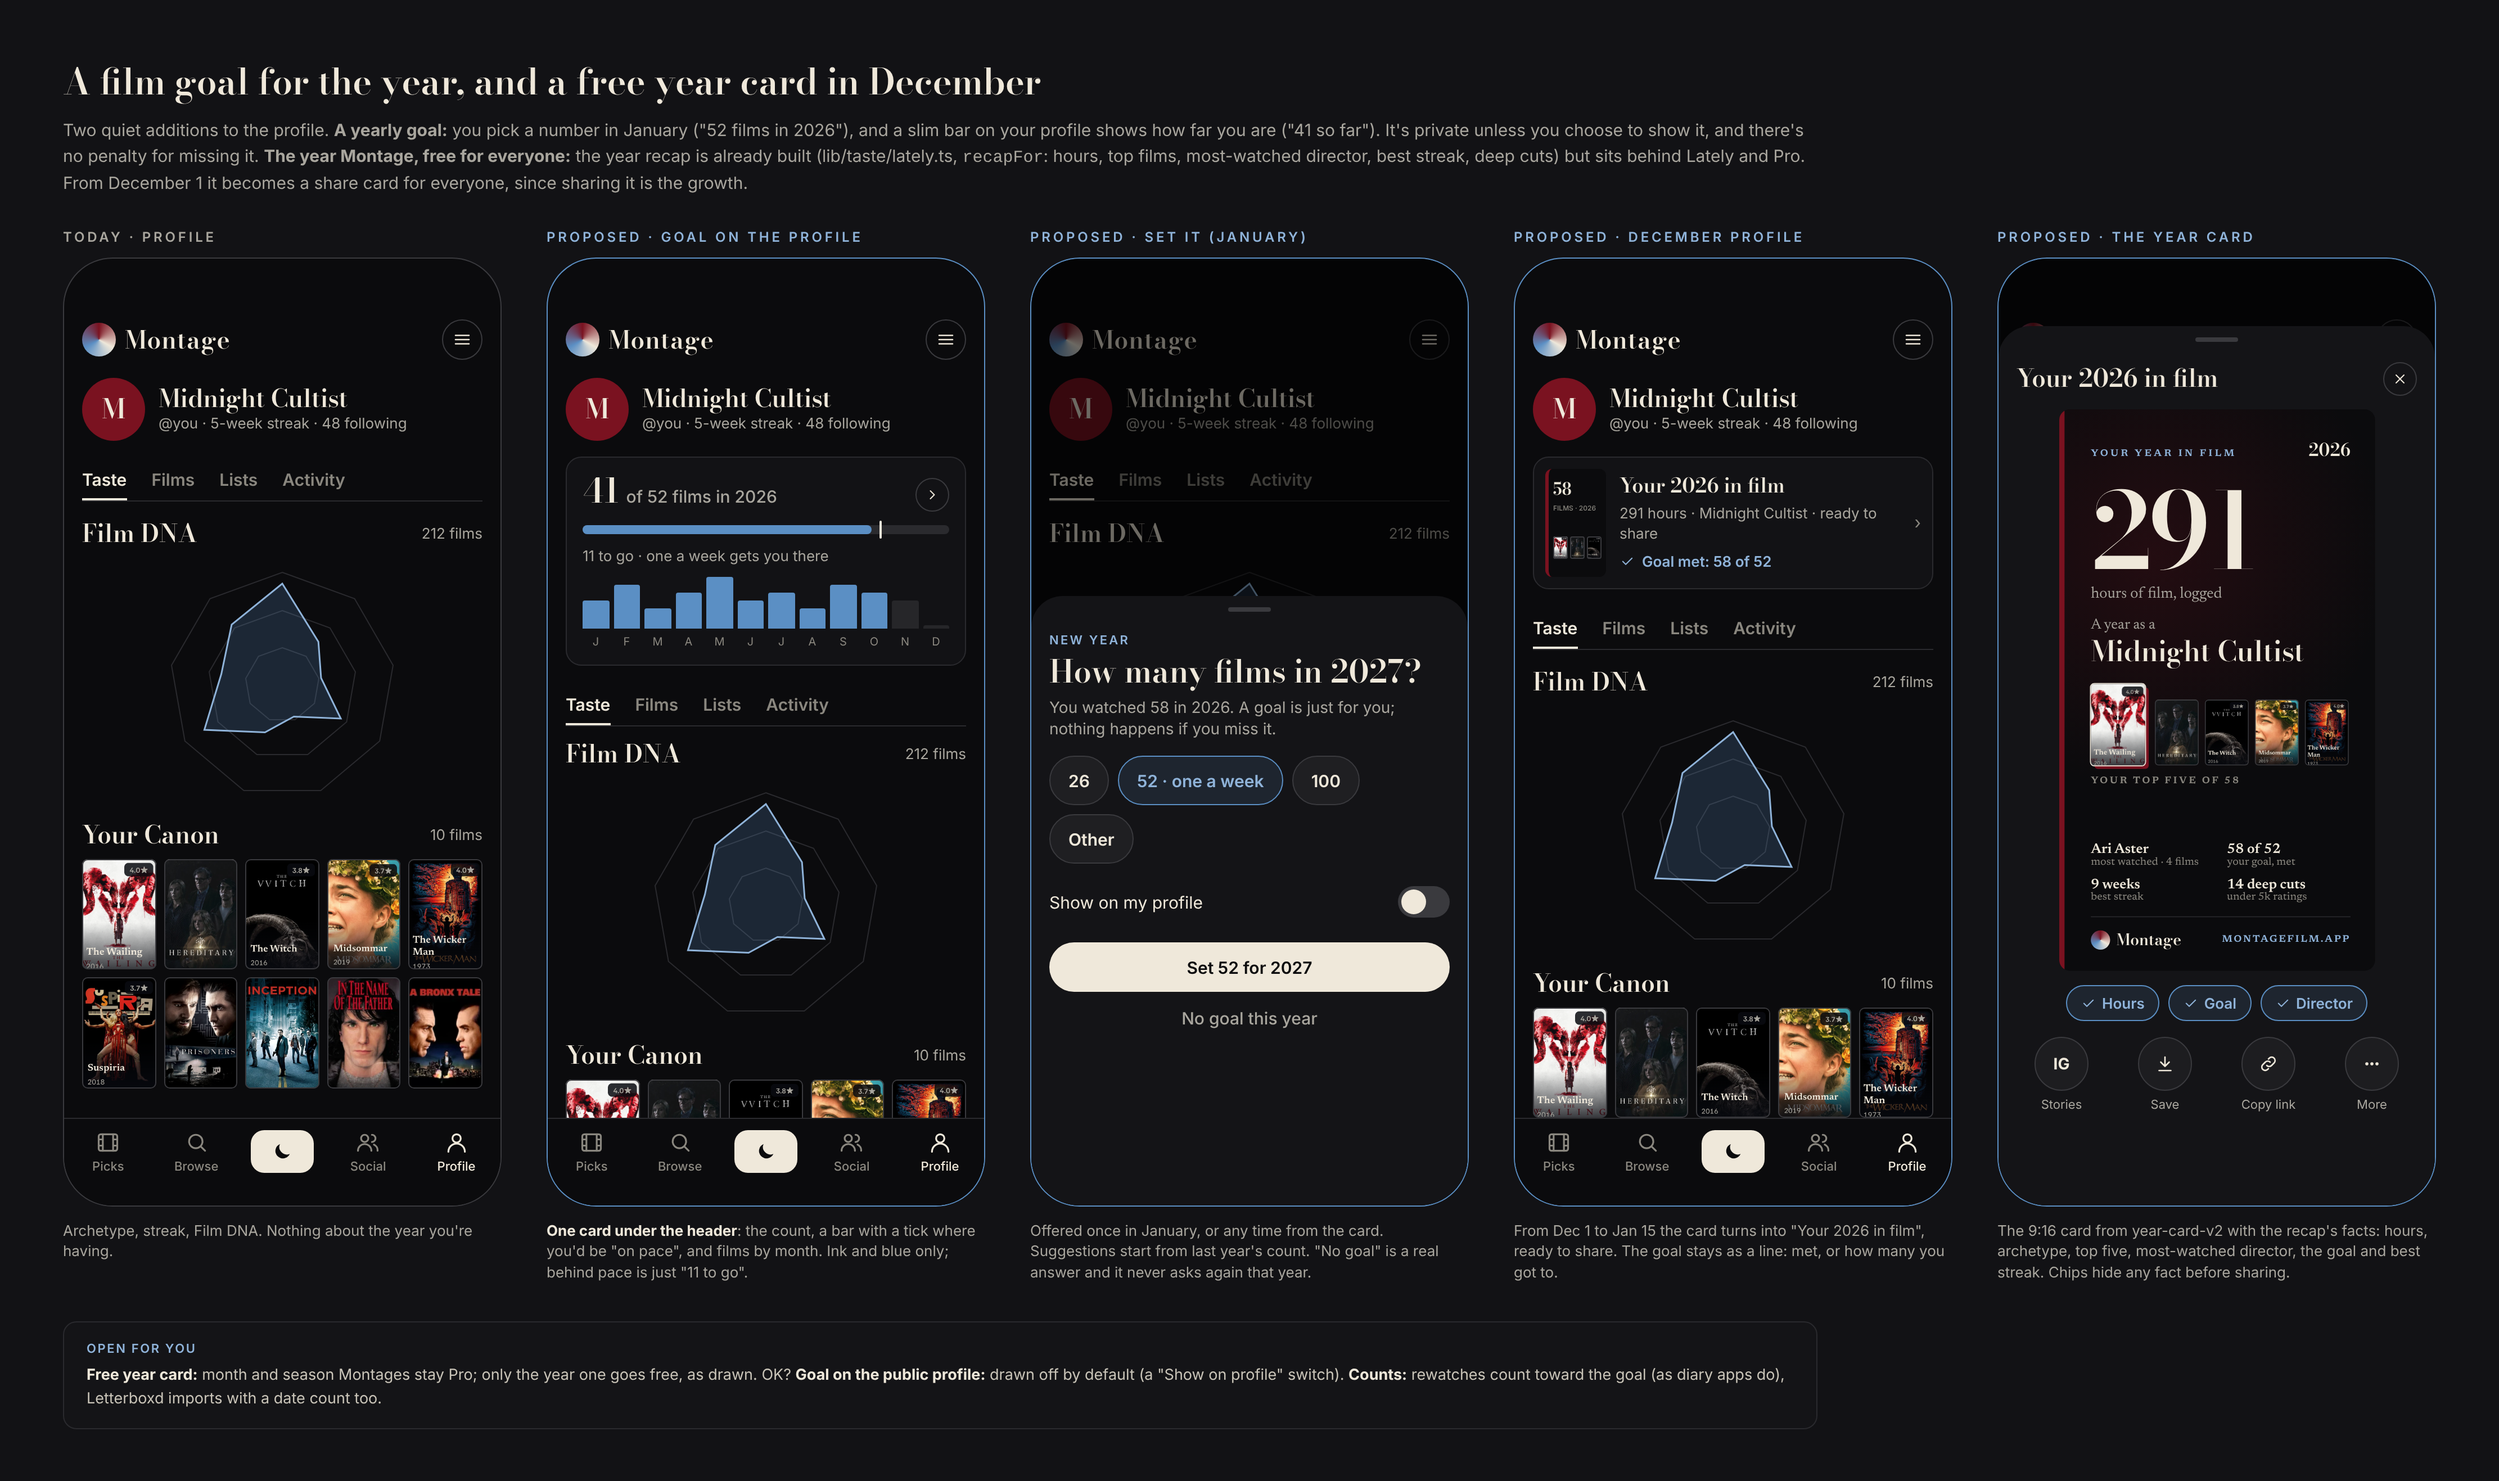
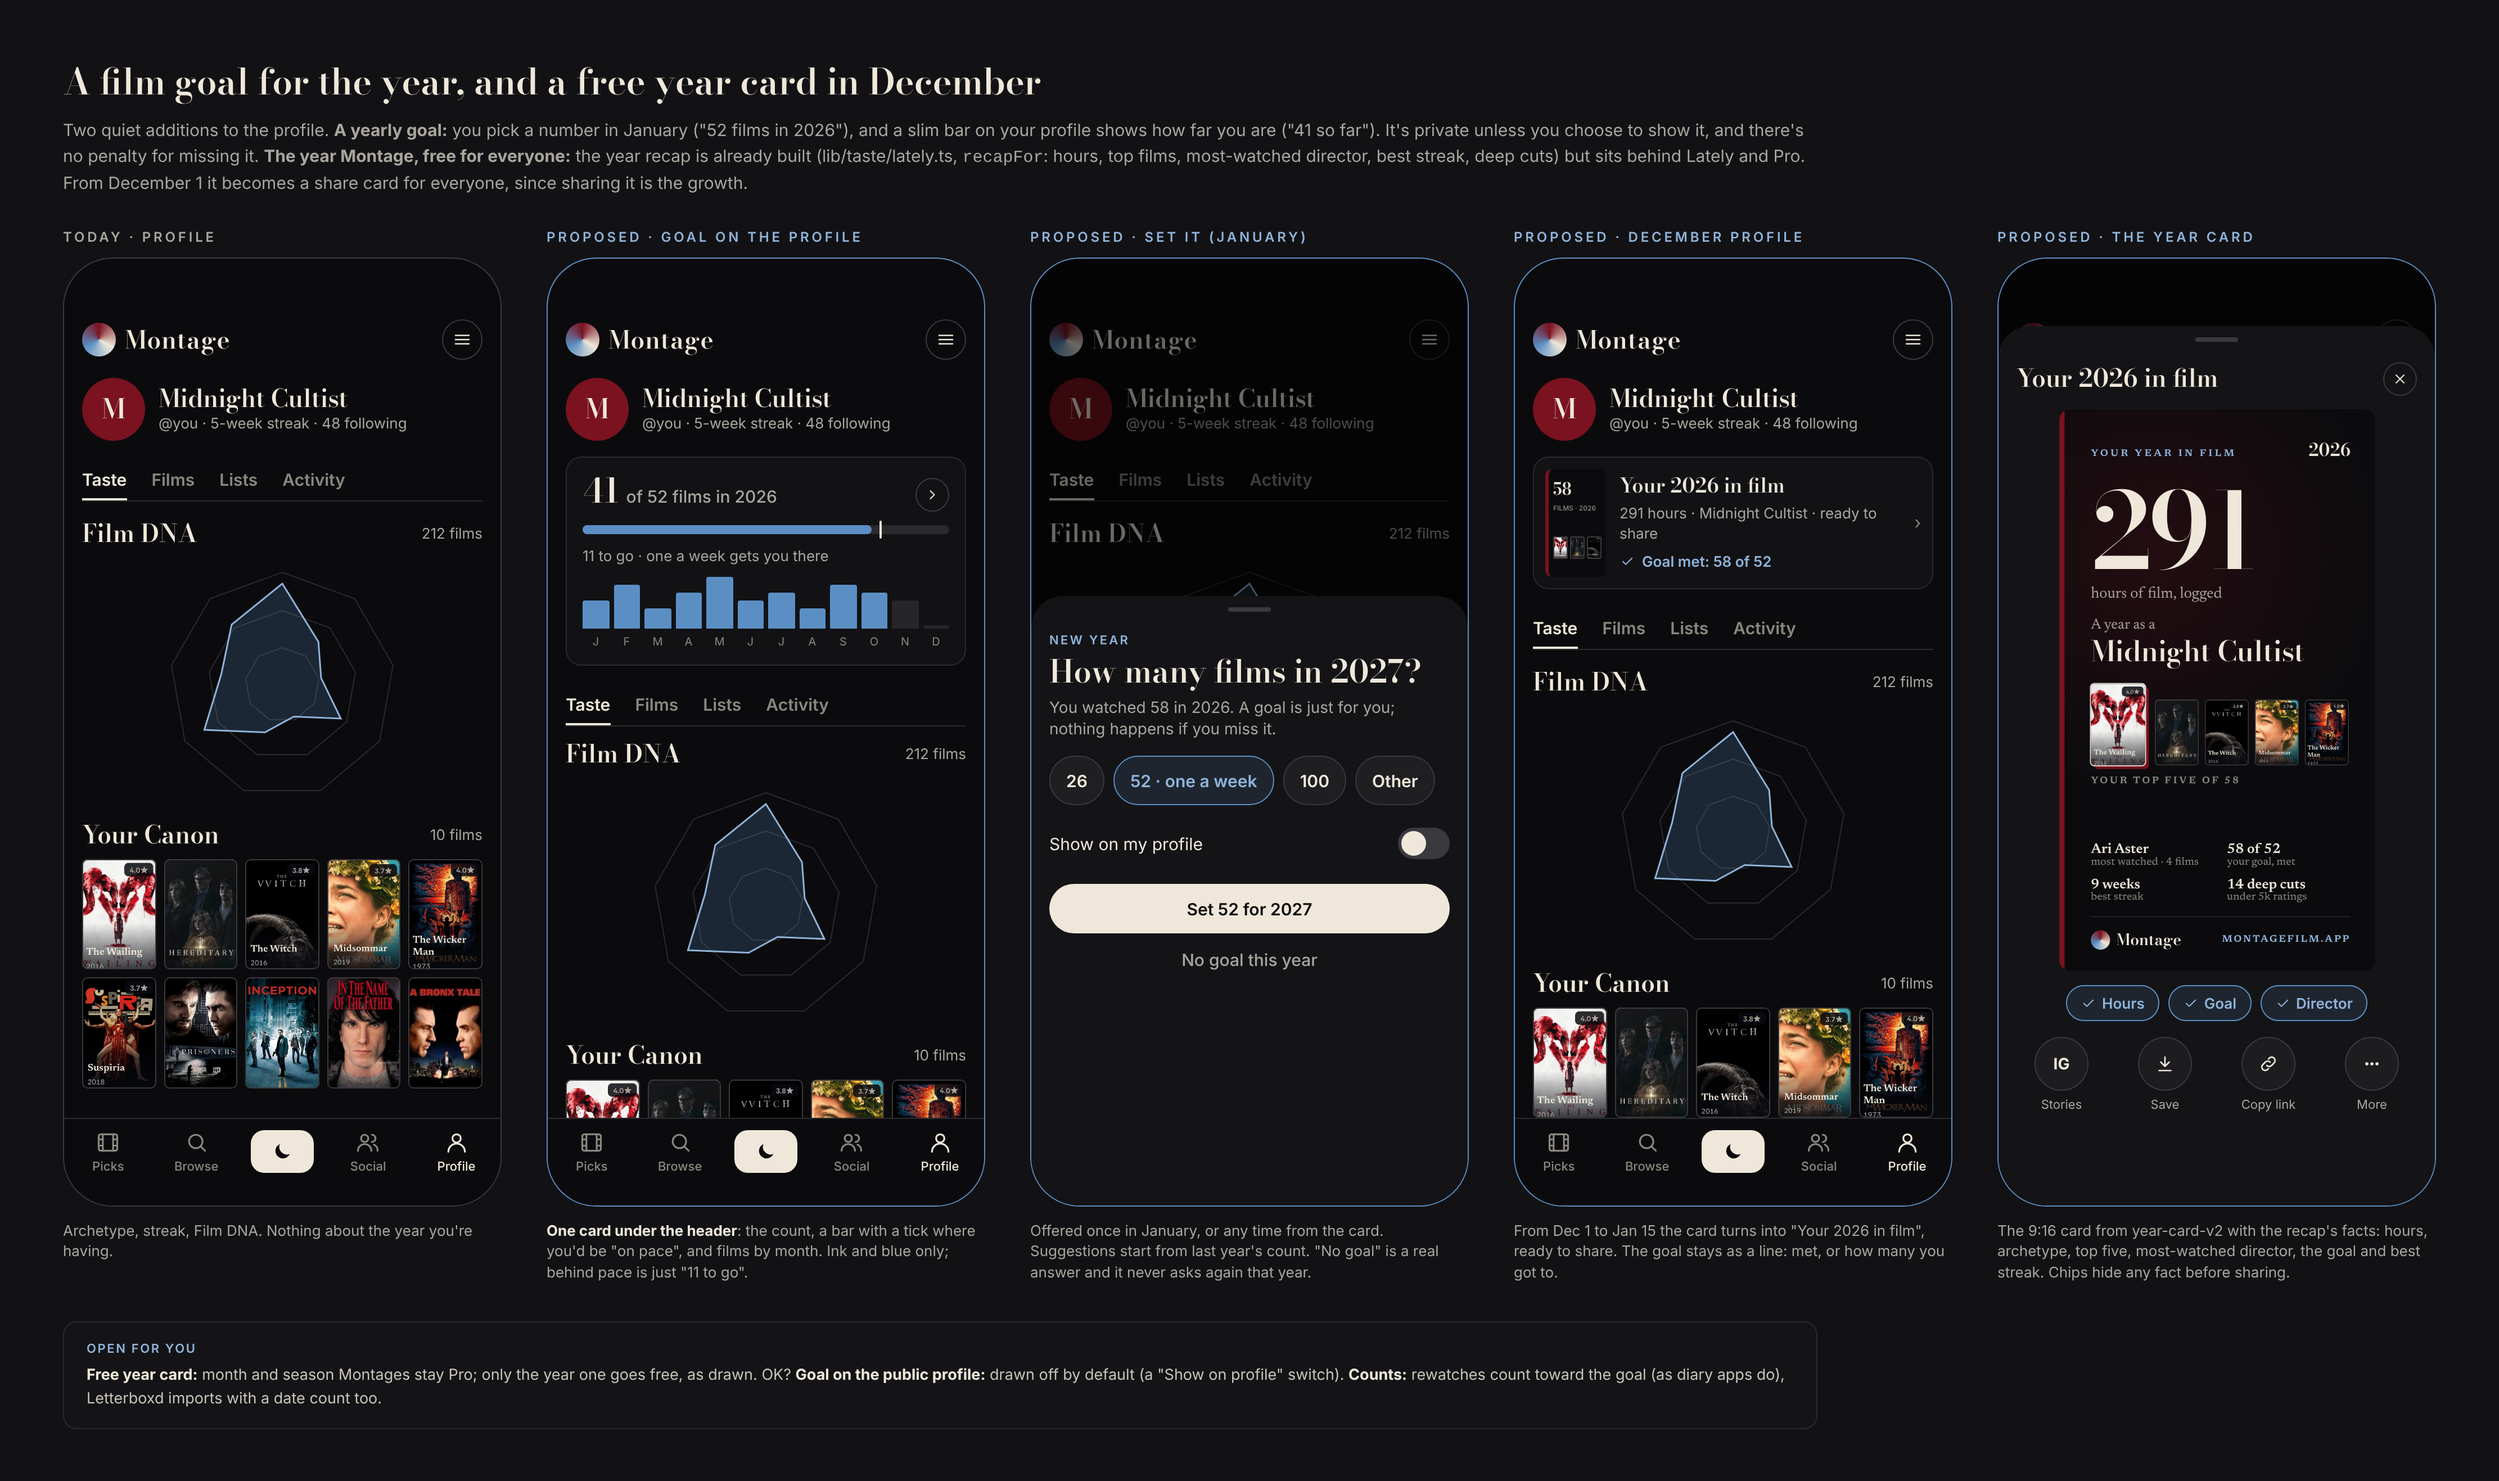
Beli mocks: in-progress updates
Claude-Session: https://claude.ai/code/session_013WRDCFXH8nihP92apJAVW7

Changed region(s): [[0.4037, 0.5604, 0.59, 0.6849], [0.4968, 0.4981, 0.5279, 0.5292]]

diff --git a/mockups/journeys/beli-6-year-goal.html b/mockups/journeys/beli-6-year-goal.html
@@ -20,8 +20,8 @@
 .yrow{margin-top:14px;display:flex;gap:12px;align-items:center;border:1px solid #2A2A2E;border-radius:14px;background:#121215;padding:10px}
 .yrow .th{width:54px;height:96px;border-radius:6px;background:#0b0b0d;border-left:3px solid #7A1220;padding:6px 4px;flex:none;font:600 15px 'Bodoni Moda';position:relative}
 .yrow .th small{display:block;font:500 6px Inter;color:#8A877F;margin-top:2px}
-.gchips{display:flex;flex-wrap:wrap;gap:8px;margin-top:14px}
-.gchips .chip{height:44px;padding:0 16px;font-size:15px}
+.gchips{display:flex;flex-wrap:nowrap;gap:8px;margin-top:14px}
+.gchips .chip{height:44px;padding:0 14px;font-size:15px}
 /* year card, from year-card-v2 (A) */
 .yc{width:360px;height:640px;background:#0b0b0d;position:relative;overflow:hidden;color:#EFE8DA;font-family:Newsreader;display:flex;flex-direction:column;padding:30px 28px 22px 36px;border-radius:12px;flex:none}
 .yc .spine{position:absolute;left:0;top:0;bottom:0;width:6px;background:#7A1220}
